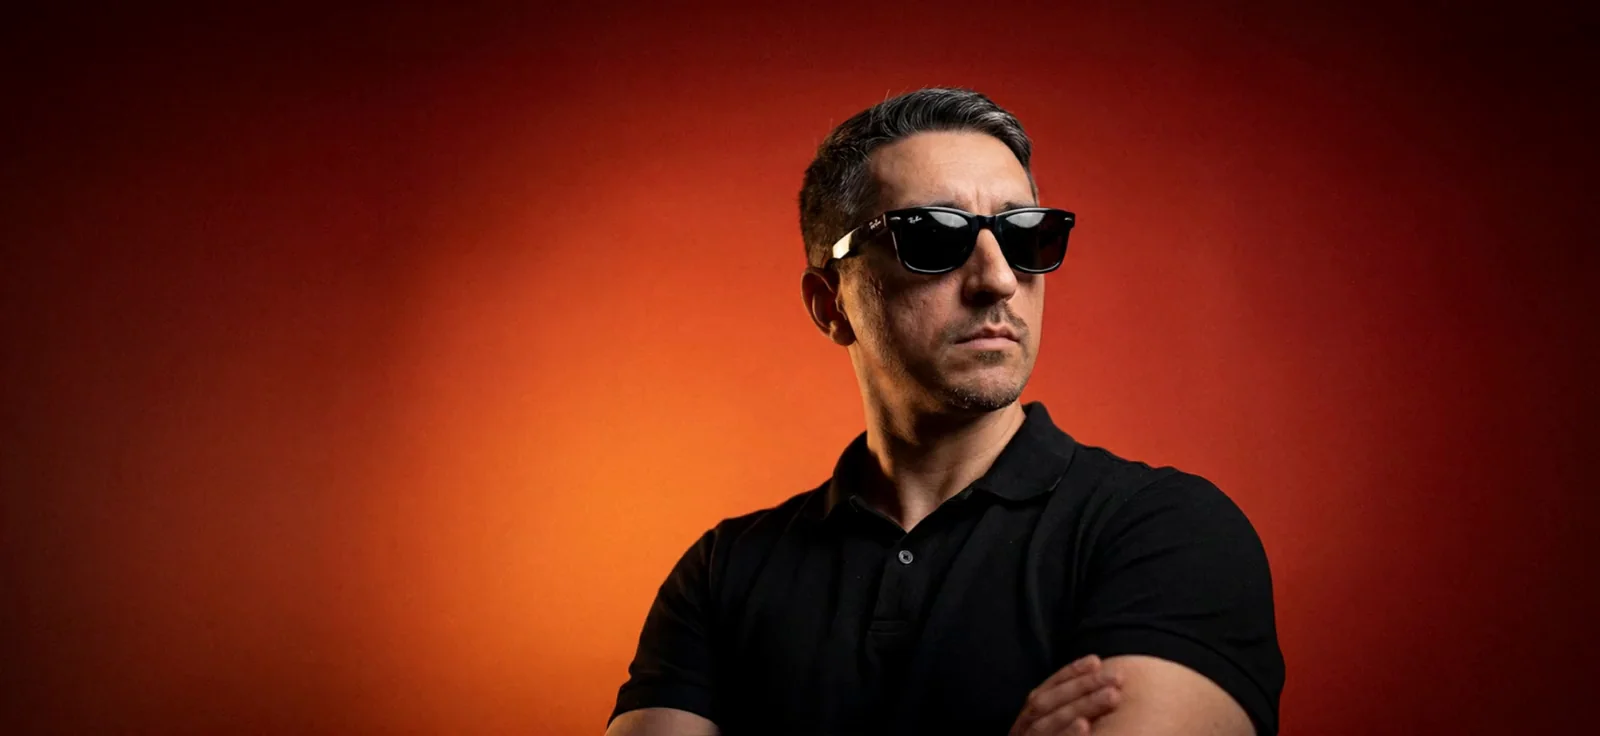
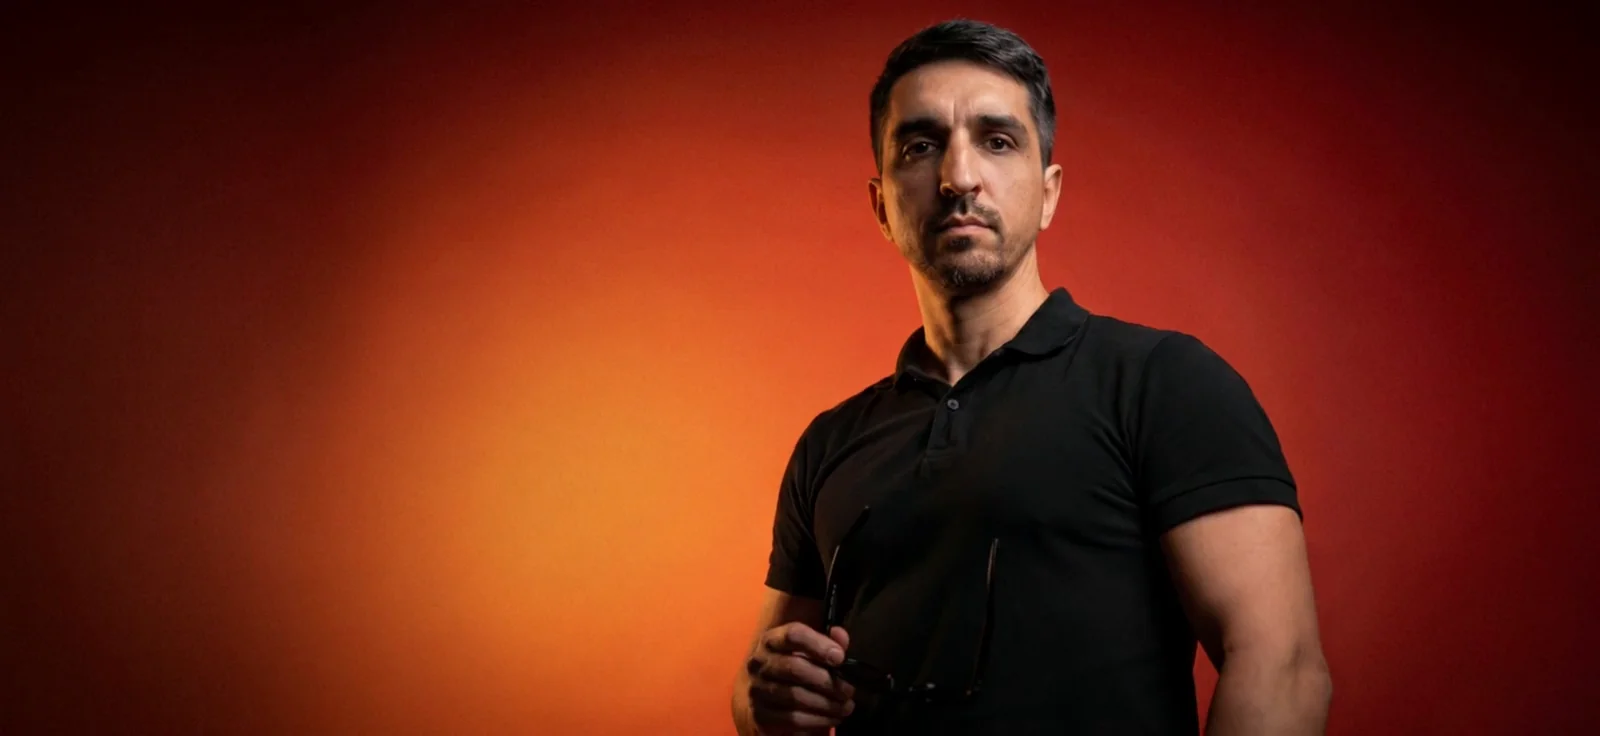
Hero opener: panel arrives small, video runs backwards, then zooms open
On a desktop load at the top, the hero starts at 30% in the middle of the
page showing the video's LAST frame. The video walks backwards to its first
frame over 1.2s — the man putting the glasses on — and the panel then zooms
to full size over 0.6s as the copy fades in. Scroll is held until it lands,
and the scroll scrub takes over from frame 0, exactly where the opener left
the playhead, so the two meet without a seam.

The zoom is CSS, not JS. It has to be painted from the server markup: doing
it in JS would show a full-size panel for a frame before hydration shrank
it, which is the flash we removed last week. JS only sweeps the video, and
it budgets that sweep against page load rather than mount — whatever
hydration and metadata cost, it still lands on the zoom.

Reverse is a walk down `currentTime`: no browser plays video backwards,
`playbackRate = -1` is not supported. This file already carries a keyframe
every 8 frames, which is what makes seeking that dense viable.

The poster is now the video's LAST frame, since that is where the opener
starts; it used to be the first.

Desktop only, skipped under prefers-reduced-motion, and skipped when the
browser restored a scroll position — all three decided synchronously on the
first client render, not from the media-query hook, whose server snapshot
would read "mobile" and drop the opener for a frame.

Verified at 1440: starts at scale 0.3 with the video at 7.04s, ends at scale
[…]

diff --git a/src/components/hero-scrub-video.tsx b/src/components/hero-scrub-video.tsx
@@ -1,6 +1,7 @@
 "use client";
 
 import { useEffect, useRef } from "react";
+import { OPENER_SWEEP_MS } from "@/lib/hero-opener";
 
 /**
  * Scroll-scrubbed background video for a PINNED hero (see HeroStackReveal).
@@ -12,12 +13,36 @@ import { useEffect, useRef } from "react";
  * scrolls don't snap the video — it glides after them with a slight delay.
  * Seeks are chained via the `seeked` event (one seek at a time; re-seek if it
  * drifts) so no seek is dropped. All state lives in a ref → no re-renders.
+ *
+ * OPENER: with `opener`, the video first runs BACKWARDS from its last frame to
+ * its first, under the zoom in globals.css, and only then hands over to scroll.
+ * Reverse is done by walking `currentTime` down, because no browser plays a
+ * video backwards reliably — `playbackRate = -1` is not supported. This file
+ * was already encoded with a keyframe every 8 frames, which is what makes
+ * seeking that dense survivable.
  */
 const EASE = 0.1; // how fast `rendered` catches `target` per frame (lower = more lag/smoother)
 
-export function HeroScrubVideo({ src }: { src: string }) {
+/** Never sweep shorter than this, however late hydration was. */
+const MIN_SWEEP_MS = 200;
+
+export function HeroScrubVideo({
+  src,
+  opener = false,
+}: {
+  src: string;
+  opener?: boolean;
+}) {
   const videoRef = useRef<HTMLVideoElement>(null);
-  const st = useRef({ target: 0, rendered: 0, isSeeking: false, duration: 0, raf: 0 });
+  const st = useRef({
+    target: 0,
+    rendered: 0,
+    isSeeking: false,
+    duration: 0,
+    raf: 0,
+    sweeping: false,
+    started: false,
+  });
 
   useEffect(() => {
     const video = videoRef.current;
@@ -25,11 +50,6 @@ export function HeroScrubVideo({ src }: { src: string }) {
     const s = st.current;
     const track = video.closest("[data-scrub-track]") as HTMLElement | null;
     const pin = track?.querySelector("[data-pin]") as HTMLElement | null;
-
-    const init = () => {
-      s.duration = video.duration || 0;
-      video.pause();
-    };
 
     const seek = (t: number) => {
       if (s.isSeeking) return;
@@ -86,7 +106,52 @@ export function HeroScrubVideo({ src }: { src: string }) {
       if (!s.raf) s.raf = requestAnimationFrame(tick);
     };
 
+    const handOverToScroll = () => {
+      s.sweeping = false;
+      s.raf = 0;
+      computeTarget();
+      s.rendered = s.target;
+      seek(s.rendered);
+    };
+
+    /** Last frame → first, finishing as the CSS zoom begins. */
+    const sweepBackwards = () => {
+      const d = s.duration;
+      if (!d) return handOverToScroll();
+      s.sweeping = true;
+      // Budget is whatever is LEFT of the opener's first beat, so however long
+      // hydration and metadata took, the sweep still lands on the zoom.
+      const budget = Math.max(MIN_SWEEP_MS, OPENER_SWEEP_MS - performance.now());
+      const from = performance.now();
+      s.rendered = d;
+      s.target = d;
+      seek(d);
+      const step = () => {
+        const p = Math.min(1, (performance.now() - from) / budget);
+        const t = d * (1 - p);
+        s.rendered = t;
+        s.target = t;
+        seek(t);
+        if (p < 1) {
+          s.raf = requestAnimationFrame(step);
+          return;
+        }
+        handOverToScroll();
+      };
+      s.raf = requestAnimationFrame(step);
+    };
+
+    const init = () => {
+      if (s.started) return;
+      s.started = true;
+      s.duration = video.duration || 0;
+      video.pause();
+      if (opener) sweepBackwards();
+      else handOverToScroll();
+    };
+
     const onScroll = () => {
+      if (s.sweeping) return; // the opener owns the playhead until it is done
       computeTarget();
       runLoop();
     };
@@ -95,9 +160,6 @@ export function HeroScrubVideo({ src }: { src: string }) {
     video.addEventListener("seeked", onSeeked);
     window.addEventListener("scroll", onScroll, { passive: true });
     if (video.readyState >= 1) init();
-    computeTarget();
-    s.rendered = s.target; // start in sync (no ease-in on load)
-    seek(s.rendered);
 
     return () => {
       cancelAnimationFrame(s.raf);
@@ -105,7 +167,7 @@ export function HeroScrubVideo({ src }: { src: string }) {
       video.removeEventListener("seeked", onSeeked);
       window.removeEventListener("scroll", onScroll);
     };
-  }, []);
+  }, [opener]);
 
   return (
     <video

diff --git a/src/components/hero-stack-reveal.tsx b/src/components/hero-stack-reveal.tsx
@@ -1,6 +1,6 @@
 "use client";
 
-import { useRef } from "react";
+import { useEffect, useRef, useState } from "react";
 import {
   motion,
   useScroll,
@@ -12,6 +12,12 @@ import type { Dict } from "@/lib/dict";
 import { TechStack } from "@/components/tech-stack";
 import { useMediaQuery, LG } from "@/lib/use-media-query";
 import { pageMax } from "@/lib/layout";
+import { useLenis } from "lenis/react";
+import {
+  OPENER_SWEEP_MS,
+  OPENER_ZOOM_MS,
+  msUntil,
+} from "@/lib/hero-opener";
 
 /**
  * Hero → TechStack. Desktop gets a two-phase scroll sequence; phone and tablet
@@ -41,6 +47,45 @@ import { pageMax } from "@/lib/layout";
  */
 export function HeroStackReveal({ dict }: { dict: Dict }) {
   const stackRef = useRef<HTMLDivElement>(null);
+  const openerRef = useRef<HTMLDivElement>(null);
+  const lenis = useLenis();
+
+  // Decided once, synchronously, from the same conditions the CSS uses — not
+  // from the media-query hook below, whose server snapshot would read "mobile"
+  // on the first client render and flip the opener off for a frame.
+  const [openerRuns] = useState(
+    () =>
+      typeof window !== "undefined" &&
+      window.matchMedia("(min-width: 1024px)").matches &&
+      window.matchMedia("(prefers-reduced-motion: no-preference)").matches &&
+      window.scrollY === 0,
+  );
+  const [opened, setOpened] = useState(false);
+  const contentReady = !openerRuns || opened;
+
+  // The CSS animation runs on every desktop load; if this one does not
+  // qualify (restored scroll), cancel it now that we can tell.
+  useEffect(() => {
+    if (!openerRuns && openerRef.current) {
+      openerRef.current.style.animation = "none";
+    }
+  }, [openerRuns]);
+
+  // Hold the page still until the panel has opened, then let it go.
+  useEffect(() => {
+    if (!openerRuns) return;
+    lenis?.stop();
+    const toCopy = setTimeout(() => setOpened(true), msUntil(OPENER_SWEEP_MS));
+    const toEnd = setTimeout(
+      () => lenis?.start(),
+      msUntil(OPENER_SWEEP_MS + OPENER_ZOOM_MS),
+    );
+    return () => {
+      clearTimeout(toCopy);
+      clearTimeout(toEnd);
+      lenis?.start();
+    };
+  }, [openerRuns, lenis]);
   const reduce = useReducedMotion();
   const isDesktop = useMediaQuery(LG);
   const animate = isDesktop && !reduce;
@@ -78,9 +123,21 @@ export function HeroStackReveal({ dict }: { dict: Dict }) {
           {/* heroY recede lives INSIDE the sticky → 0 while pinned, recedes after */}
           <motion.div
             style={animate ? { y: heroY } : undefined}
-            className="origin-top will-change-transform lg:h-full lg:[&>section]:h-full"
+            className="origin-top will-change-transform lg:h-full"
           >
-            <Hero dict={dict} />
+            {/* The opener zoom lives on its own element so it cannot fight the
+                recede transform above it. Its animation is CSS (globals.css):
+                it has to be painted from the server markup, before hydration. */}
+            <div
+              ref={openerRef}
+              className="hero-opener h-full lg:[&>section]:h-full"
+            >
+              <Hero
+                dict={dict}
+                opener={openerRuns}
+                contentReady={contentReady}
+              />
+            </div>
           </motion.div>
         </div>
       </div>

diff --git a/src/components/hero.tsx b/src/components/hero.tsx
@@ -44,9 +44,20 @@ function RolesList({ dict, className }: { dict: Dict; className?: string }) {
   );
 }
 
-export function Hero({ dict }: { dict: Dict }) {
+export function Hero({
+  dict,
+  opener = false,
+  contentReady = true,
+}: {
+  dict: Dict;
+  /** Run the reverse-video opener behind the panel (see HeroStackReveal). */
+  opener?: boolean;
+  /** Hold the copy back until the opener has zoomed the panel open. */
+  contentReady?: boolean;
+}) {
   const reduce = useReducedMotion();
   const initial = reduce ? "show" : "hidden";
+  const show = contentReady ? "show" : "hidden";
 
   return (
     /* The pin sizes this section to the viewport MINUS the sticky header and
@@ -62,13 +73,13 @@ export function Hero({ dict }: { dict: Dict }) {
       {/* background — scrubbed video on desktop, static photo + fade on
           phone/tablet. The cursor water-drops reveal is still kept in
           hero-reveal.tsx if we ever revert. */}
-      <HeroBackground />
+      <HeroBackground opener={opener} />
 
       {/* eyebrow — Geist Mono 10px (mobile) → 12px / 1.2px / uppercase / 90% */}
       <motion.div
         variants={container}
         initial={initial}
-        animate="show"
+        animate={show}
         className="relative z-10 flex items-start justify-between gap-4 font-mono text-[10px] uppercase leading-[14px] tracking-[1.2px] text-white/90 sm:text-[11px] sm:leading-[15px] lg:text-[12px] lg:leading-[16.5px]"
       >
         <motion.span variants={fadeUp}>
@@ -83,7 +94,7 @@ export function Hero({ dict }: { dict: Dict }) {
       <motion.div
         variants={container}
         initial={initial}
-        animate="show"
+        animate={show}
         className="relative z-10 flex flex-col gap-10 py-6 xl:flex-row xl:items-end xl:justify-between xl:gap-6"
       >
         <h1
@@ -118,7 +129,7 @@ export function Hero({ dict }: { dict: Dict }) {
       <motion.div
         variants={container}
         initial={initial}
-        animate="show"
+        animate={show}
         className="relative z-10 flex flex-col gap-8 border-t border-white/30 pt-8 lg:flex-row lg:items-end lg:justify-between lg:gap-10 lg:pt-[49px]"
       >
         <motion.div variants={fadeUp} className="max-w-[432px]">

diff --git a/src/app/globals.css b/src/app/globals.css
@@ -102,6 +102,33 @@ html.lenis body {
 }
 
 /* ============================================================
+   HERO OPENER — the panel arrives small, then zooms open
+   ============================================================ */
+/* Driven by CSS, not JS, so the small state is already painted from the
+   server markup. Doing the whole thing in JS meant a full-size panel for one
+   frame before hydration shrank it — the exact flash this opener is meant to
+   be free of. The reverse video sweep aligns itself to these timings.
+
+   Desktop only (the smaller tiers have no video to sweep) and skipped
+   outright when the reader asked for less motion. */
+@keyframes hero-opener-zoom {
+  from {
+    transform: scale(0.3);
+  }
+  to {
+    transform: scale(1);
+  }
+}
+@media (min-width: 1024px) and (prefers-reduced-motion: no-preference) {
+  .hero-opener {
+    /* `both` holds the from-state through the delay, which is what keeps the
+       panel small while the video runs backwards. */
+    animation: hero-opener-zoom 600ms 1200ms cubic-bezier(0.16, 1, 0.3, 1) both;
+    will-change: transform;
+  }
+}
+
+/* ============================================================
    HERO STILL — crop differs per tier
    ============================================================ */
 /* The phone frame is composed for a narrow panel, where a centred crop clips

diff --git a/src/lib/hero-opener.ts b/src/lib/hero-opener.ts
@@ -1,0 +1,21 @@
+/**
+ * Timings for the hero opener, shared by the CSS animation and the JS that
+ * sweeps the video backwards through it.
+ *
+ * These MIRROR `.hero-opener` in globals.css — change both together. The CSS
+ * owns the zoom because it must be painted from the server markup, before
+ * hydration; JS only has to land the video on the same beat.
+ */
+
+/** Panel stays small while the video runs backwards. = the CSS animation-delay. */
+export const OPENER_SWEEP_MS = 1200;
+
+/** Zoom out to full size. = the CSS animation-duration. */
+export const OPENER_ZOOM_MS = 600;
+
+/**
+ * The CSS clock starts when styles apply; JS only wakes at hydration. So every
+ * JS step is scheduled against page load, not against mount — otherwise a slow
+ * hydration would drift the video out of step with the zoom.
+ */
+export const msUntil = (mark: number) => Math.max(0, mark - performance.now());

diff --git a/src/components/hero-background.tsx b/src/components/hero-background.tsx
@@ -22,7 +22,7 @@ import { useMediaQuery, LG } from "@/lib/use-media-query";
 /** Below lg the still runs to 72%, safely past the 66% where the fade turns solid. */
 const STILL_BOX = "absolute inset-x-0 top-0 h-[72%] lg:h-full";
 
-export function HeroBackground() {
+export function HeroBackground({ opener = false }: { opener?: boolean }) {
   const isDesktop = useMediaQuery(LG);
 
   return (
@@ -49,7 +49,7 @@ export function HeroBackground() {
       {/* Still gated in JS rather than hidden with CSS: a mounted
           <video preload="auto"> downloads its ~2.2 MB even while hidden, and a
           phone must not pay for a video it will never see. */}
-      {isDesktop && <HeroScrubVideo src="/hero.mp4" />}
+      {isDesktop && <HeroScrubVideo src="/hero.mp4" opener={opener} />}
 
       <div aria-hidden className="absolute inset-0 bg-black/10" />
     </>
